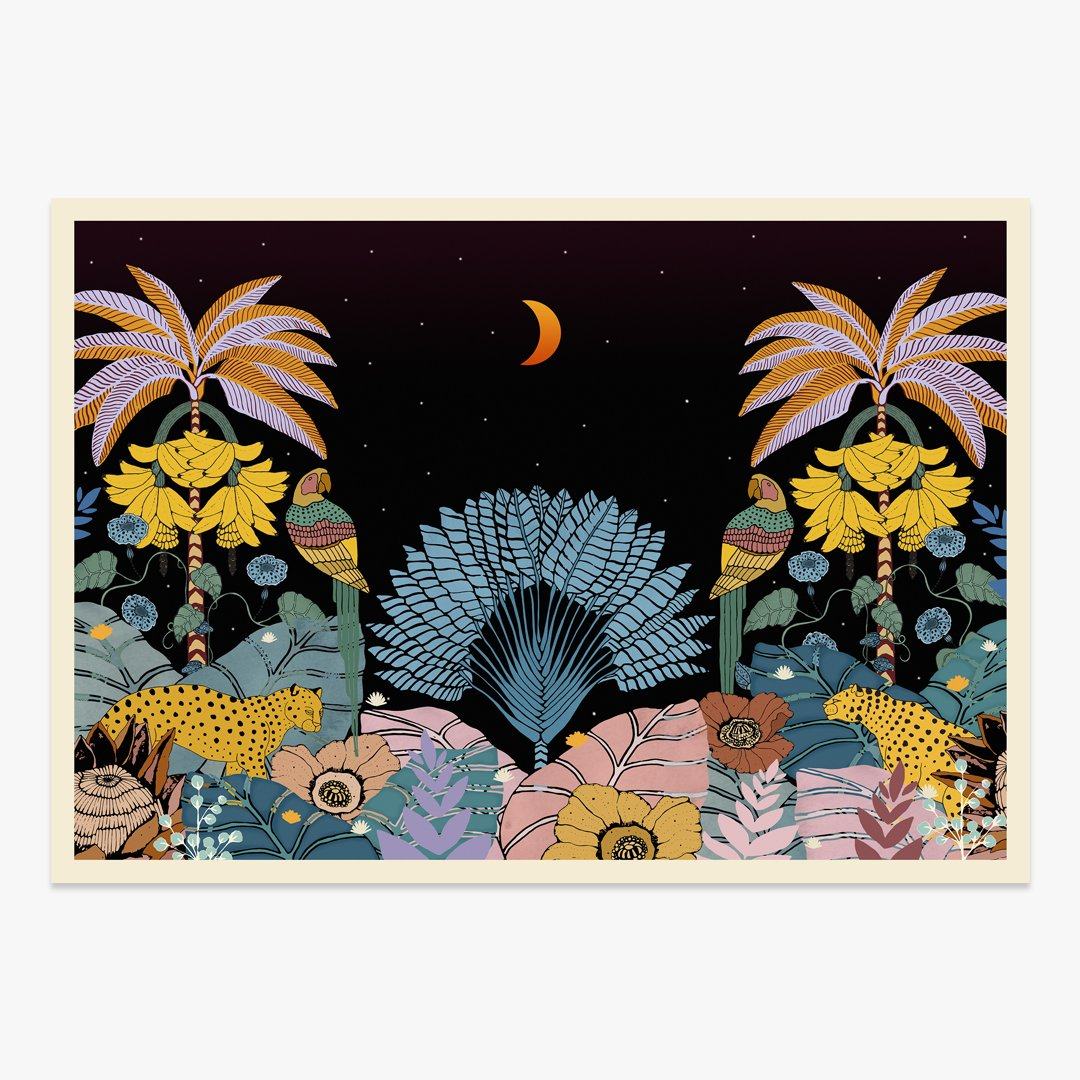
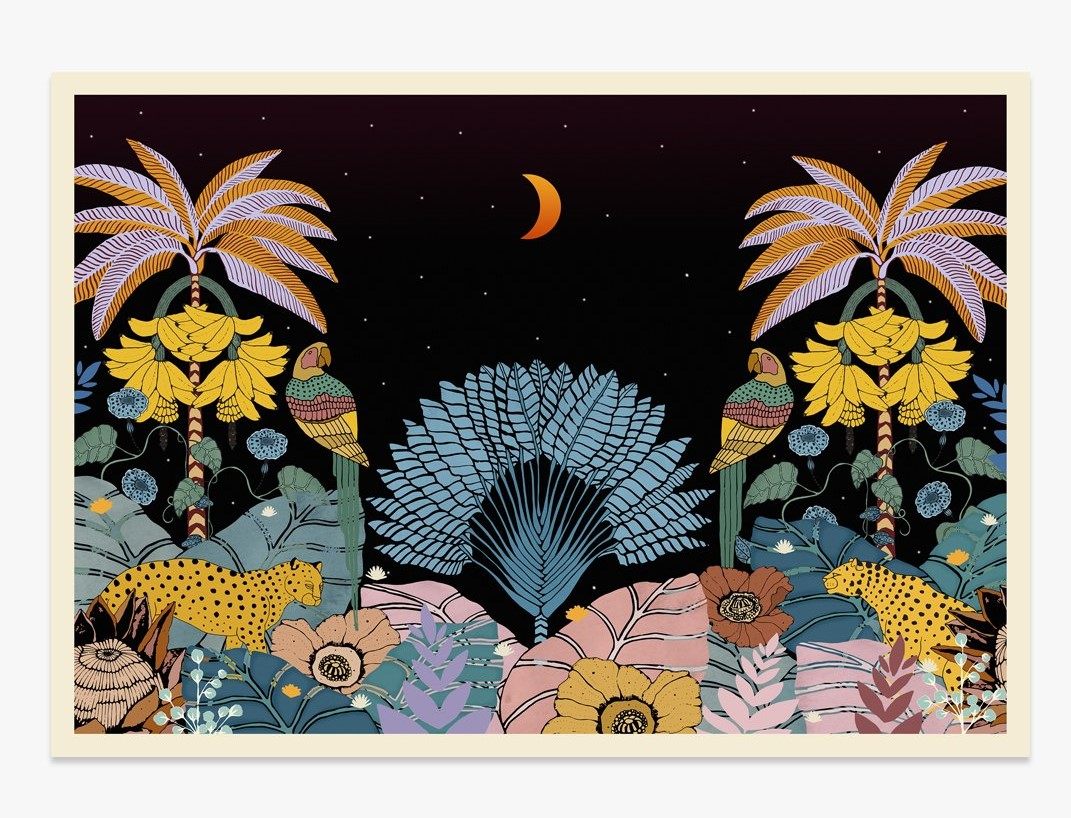
Tested text when hovering products

diff --git a/index.html b/index.html
@@ -36,16 +36,19 @@
             <!-- Huvudinnehåll som innehåller divar/boxar med artiklar/produkter -->
                 <!-- Gruppera artiklar/produkter (?)-->
                 <div class="prodbox">
-                    <h4>Produkt 1</h4>
-                    <p>Produktbeskrivning</p>
+                    <img src="500.jpg" class="img" 
+                        alt="Bild på poster Fashion" title="Fashion by Esther Haase" />
+                    <div class="img-textbox"> 
+                        <div class="img-text">Go to product</div>
+                    </div>
                 </div>
                 <div class="prodbox">
-                    <h4>Produkt 2</h4>
-                    <p>Produktbeskrivning</p>
+                        <img src="Nattdjungel.jpg" class="img" 
+                        alt="Bild på poster Nattdjungel" title="Nattdjungel" />
                 </div>
                 <div class="prodbox">
-                    <h4>Produkt 3</h4>
-                    <p>Produktbeskrivning</p>
+                        <img src="deepsea-frame.jpg" class="img" 
+                        alt="Bild på poster Deep Sea" title="Deep Sea" />
                 </div>
         </main>
 

diff --git a/style.css b/style.css
@@ -79,10 +79,35 @@
 }
 
 .prodbox {
+    display: flex;
     width: 60%;
     margin: 8px;
     padding: 10px;
-    background: #48BF7A;
+    background: white;
+    align-items: center;
+    border: 1px solid black;
+}
+
+.img-textbox {
+    display: flex;
+    transition: .5s ease;
+    opacity: 0;
+    justify-content: center;
+    align-items: center;
+}
+
+.img-text {
+    background: black;
+    color: white;
+}
+
+.prodbox:hover .img {
+    opacity: 0.5;
+    filter: alpha(opacity=50);
+}
+
+.prodbox:hover .img-textbox {
+    opacity: 1;
 }
 
 .flex-container-contact {
@@ -106,7 +131,6 @@
 .img {
     max-width: 100%;
 }
-
 
 .contact-info {
     float: right;

diff --git a/product.html b/product.html
@@ -26,7 +26,7 @@
         </nav>
 
         <aside class="aside">
-            <h3>Här ska det vara något övrigt.</h3>
+            <h3>Här ska det vara något random.</h3>
         </aside>
 
         <main class="main flex-container">
